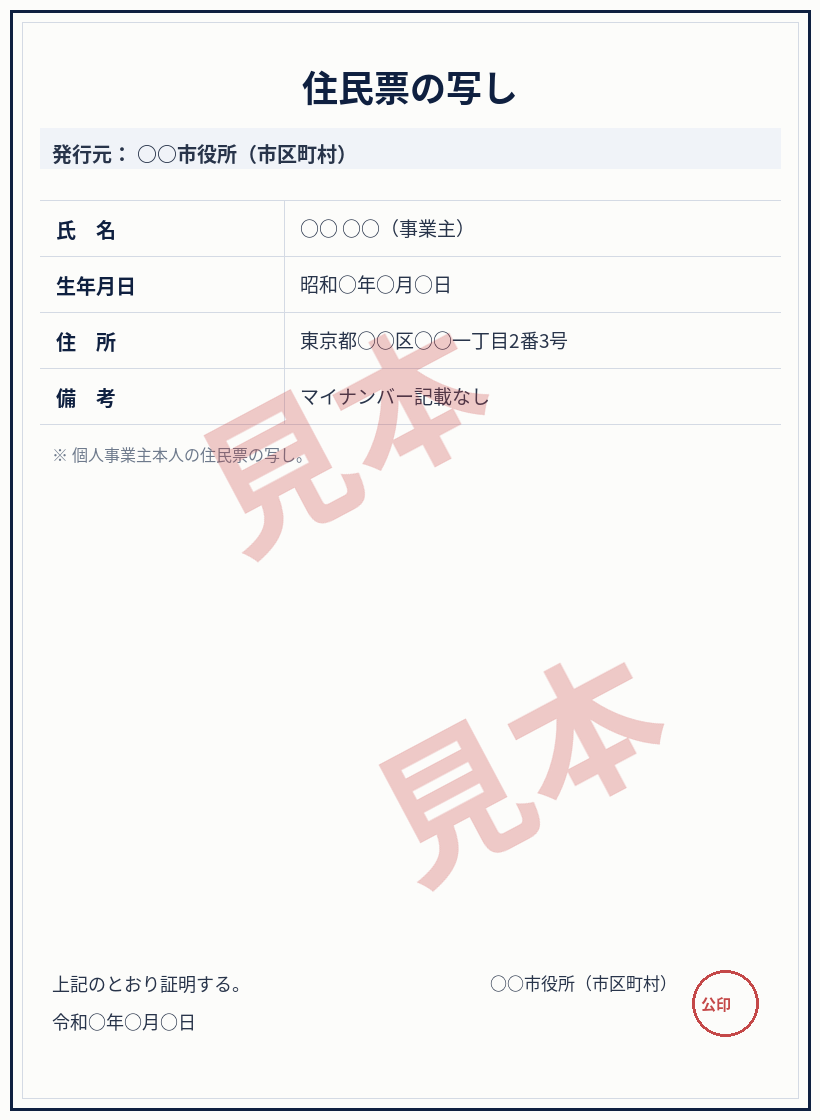
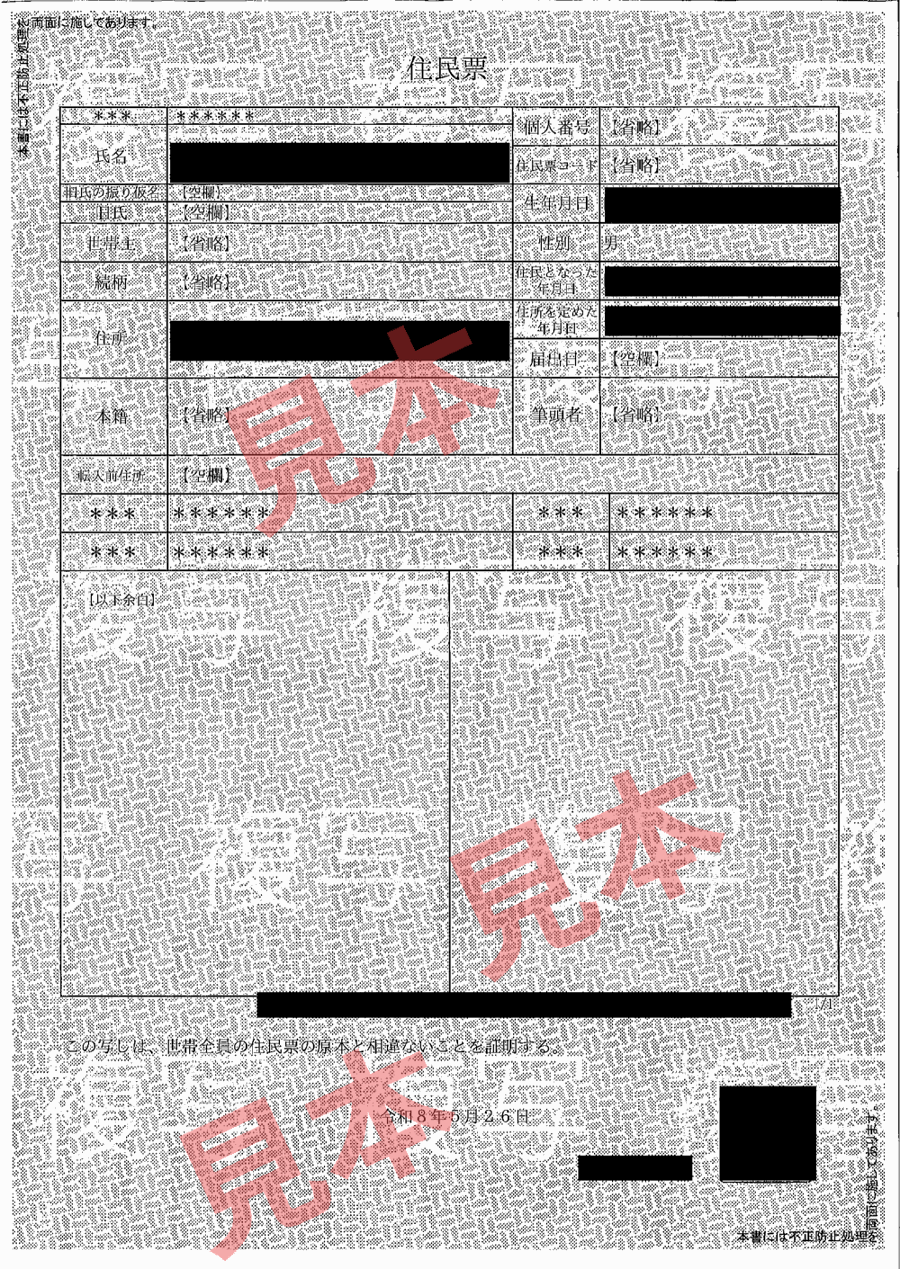
ver.20261123.02 company_dataup.html: 個人事業主の見本を実際の書類（黒塗り）に差し替え（住民票・資格確認書・国保納付・被保険者記録照会・回答票）、納税証明書その3(5項目)は個人の見本に
Claude-Session: https://claude.ai/code/session_016nQsuXVqDRv4YXmSCXDBCu

diff --git a/company_dataup.html b/company_dataup.html
@@ -1,4 +1,6 @@
 <!DOCTYPE html>
+<!-- company_dataup ver.20261123.02 - 個人事業主の見本を、許可が出た個人事業主の実際の書類（個人情報は黒塗り）に差し替え：住民票・医療保険の資格確認書・国民健康保険料納付確認書・被保険者記録照会（納付Ⅱ）・被保険者記録照会回答票 -->
+<!-- company_dataup ver.20261123.01 - 個人事業主の「個人事業主納税証明書その3(5項目)」で法人の見本（法人税入り）が出ていたのを、個人の見本（源泉・申告所得税・相続税・贈与税・消費税の5項目）と説明に直した -->
 <!-- company_dataup ver.20261121.03 - パソコンは画面の大きさに合わせて広げる（画面の94%・最大1680px）。文字・ボタン・見本画像も画面に合わせて大きく。 -->
 <!-- company_dataup ver.20261121.02 - 1つの書類＝1つの区切り：「取れるところ」を書類の中に入れ、住所の説明も各書類にくっつける（上のまとめは出さない）。パソコンは横幅を広げ、開いた書類の中を左（取れるところ）・右（説明と見本）の2列に。 -->
 <!-- company_dataup ver.20261121.01 - 色をへらして見やすく：黄・緑の囲みをやめ、白＋うすいグレー、注意は左のオレンジ線だけに。取れるところは「・」の箇条書き、住所まとめは表に。提出済みはうすいグレー。 -->
@@ -738,7 +740,7 @@ function _coSampleKeyByLabel(label){
   if(t.indexOf('法人住民税')>=0 || has('地方税','法人')) return 'zeimu_shimin';
   if(t.indexOf('納税証明')>=0){
     if(t.indexOf('法人税')>=0) return 'zeimu_3';
-    if(t.indexOf('申告所得税')>=0 || t.indexOf('相続税')>=0 || t.indexOf('贈与税')>=0) return 'kojin_zeimu3';
+    if(t.indexOf('個人事業主')>=0 || t.indexOf('5項目')>=0 || t.indexOf('５項目')>=0 || t.indexOf('申告所得税')>=0 || t.indexOf('相続税')>=0 || t.indexOf('贈与税')>=0) return 'kojin_zeimu3';   // ver.20261123.01: 「個人事業主納税証明書その3(5項目)」も個人の見本に
     return 'zeimu_3';
   }
   if(t.indexOf('労働保険')>=0) return 'rodo_hoken';
